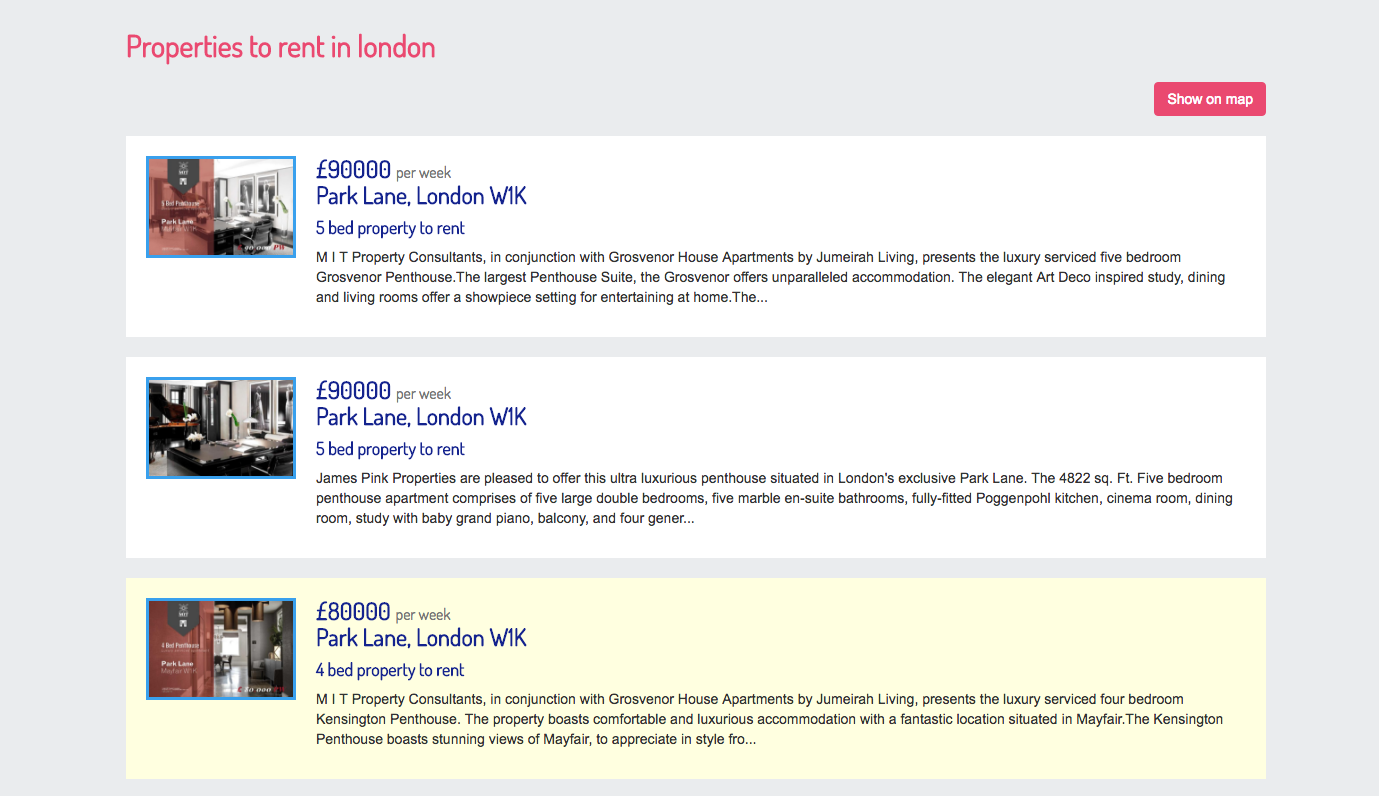
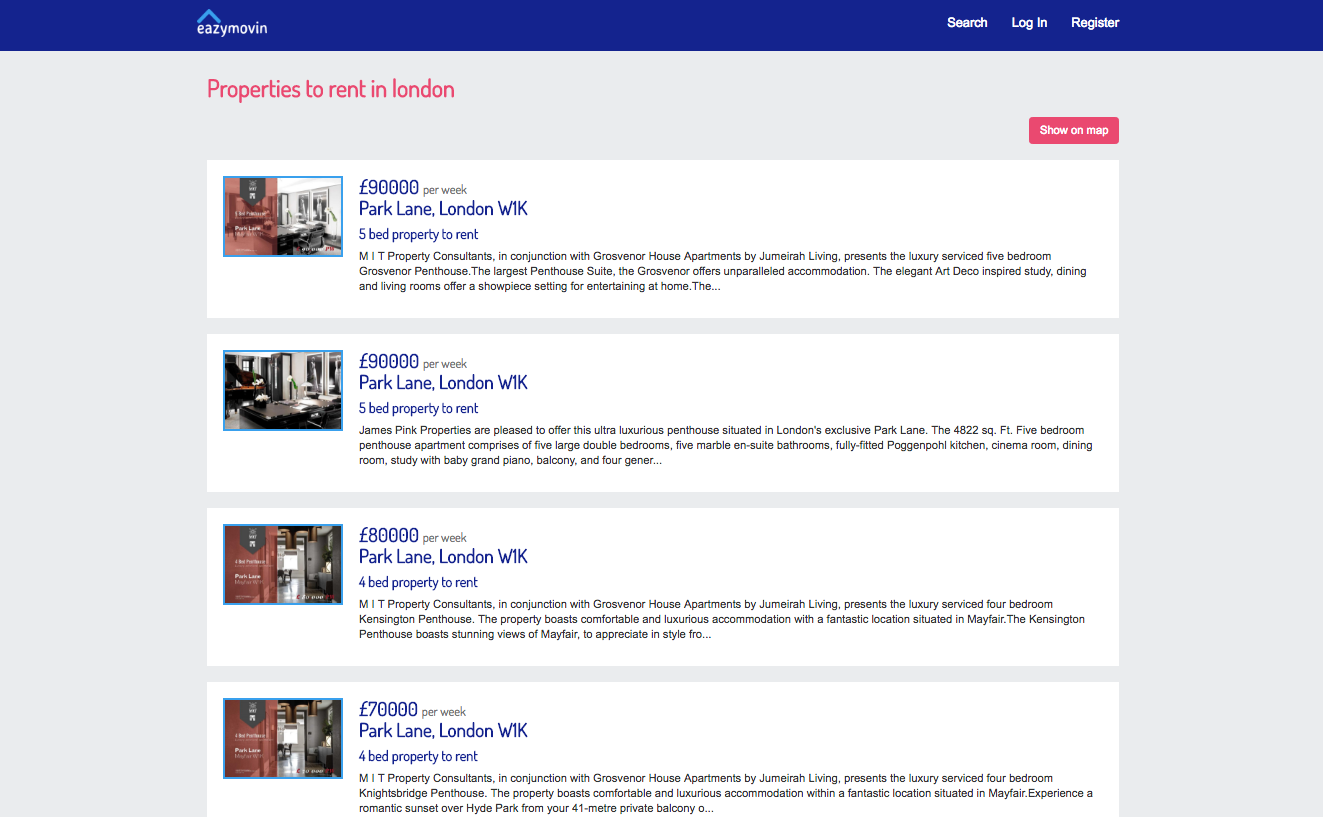
:fire:

diff --git a/README.md b/README.md
@@ -121,6 +121,12 @@ function propertiesRate (req, res, next){
 
 For the styling I've used Bootstrap 3 because I wanted something clean and professional looking and I still haven't found anything better of Bootstrap for this purposes, even though I'm not a great fan of the rigidity of its patterns.
 
+<img src="https://raw.githubusercontent.com/mmorandini/wdi-project-2/master/src/images/property-index.png">
+<small>Property index page</small>
+
+<img src="https://raw.githubusercontent.com/mmorandini/wdi-project-2/master/src/images/property-show.png">
+<small>Property show page</small>
+
 <h2>Technologies</h2>
 
  - ES6 Javascript
@@ -134,5 +140,5 @@ For the styling I've used Bootstrap 3 because I wanted something clean and profe
  - Mongodb
  - Mongoose
  - Request-promise
- - 
+ - Gulp
  
